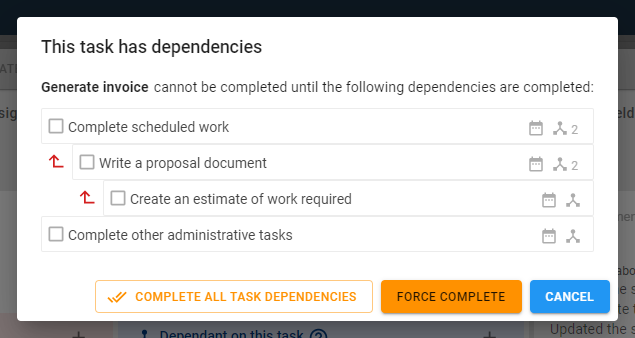
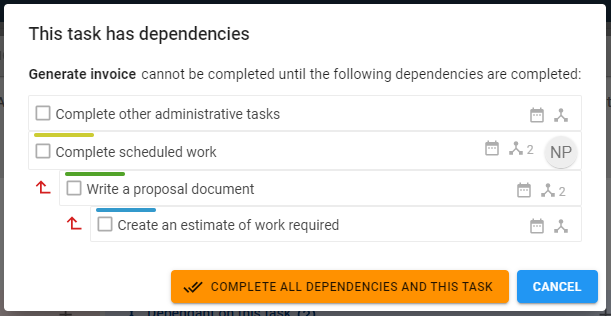
update dependencies how to guide for new features

diff --git a/docs/boards/howto/dependencies.md b/docs/boards/howto/dependencies.md
@@ -38,8 +38,8 @@ Task dependencies can be created in several ways:
 
 1. Open the `Timeline` view of your board.
 2. Ensure that the parent and child tasks for the dependency you want to create are scheduled and appear on the timeline.
-3. Dependencies can be created in either direction. To create a dependency from the parent to the child (parent waits for child to be completed first), first hover the cursor over the parent of the intended dependency to see the add dependency drag icons.
-4. Hover over the left red icon, click and drag the icon to the intended dependency child task. An arrow will be drawn as you drag, and the task you have dragged onto will have a red highlighted border:
+3. Dependencies can be created from child (starting task) to parent (ending task). The parent waits for child to be completed first. To create a new dependency, first hover the cursor over a task to see the add dependency drag icon appear on the bottom right edge (a blue arrow).
+4. Hover over the arrow icon, then click and drag it to the intended parent dependency task. An arrow will be drawn as you drag, and the task you have dragged onto will have a blue highlighted border.
 5. Drop the icon onto the intended task and the dependency relationship will be created.
     - Note that if the icon is dragged and dropped onto a task that is already a dependency of the originating task, then nothing will happen.
 
@@ -72,36 +72,52 @@ Dependencies for a particular task can be displayed/visualised in various ways d
 ### Board view
 - Hover on the dependencies icon on a task card for a moment to highlight its dependencies.
 ![](/assets/boards/dependencies/show-dependencies-kanban.gif)
+Note that numbers appear in the top right of the highlighted cards to indicate the order that they need to be completed. 
 
 ### Activity view
 - Hover on the dependencies icon on a task card for a moment to highlight its dependencies.
 ![](/assets/boards/dependencies/show-dependencies-activity.gif)
+Note that numbers appear in the top right of the highlighted cards to indicate the order that they need to be completed. 
 
 ### Mindmap
 - Hover on the dependencies icon on a task card for a moment to highlight its dependencies.
 ![](/assets/boards/dependencies/show-dependencies-mindmap.gif)
+Note that numbers appear in the top right of the highlighted cards to indicate the order that they need to be completed. 
 
 ### Timeline
-- Hover anywhere on a card with dependencies for a moment to highlight its dependencies and also visualise the dependency links as arrows to and from the dependant cards.
-![](/assets/boards/dependencies/show-dependencies-timeline.gif)
+Timeline view is the best way to visually observe dependencies as arrows drawn between scheduled tasks. 
 
-![](/assets/boards/dependencies/timeline-show-dependencies-checkbox.png){: style="float: left"} Using the controls in the right sidebar, dependency visualisations can be turned off by unchecking `Show Dependencies`. The arrow display depth slider can be used to increase the number of "levels" (backwards and forwards) to show a chain of dependency link arrows in the Timeline view, originating from the card that is being hovered on. See the image below as an example.
+There are several options available for showing dependency arrows in the timeline view, controlled by settings in the right hand sidebar:
 
-<br/><br/><br/><br/><br/><br/>
-![](/assets/boards/dependencies/show-dependencies-timeline-3-levels.png)
+<center>![](/assets/boards/dependencies/timeline-dependencies-settings.png)</center>
+
+#### Show all dependency arrows
+This is the default setting and will show all dependencies as blue arrows at all times. The arrows will recalculate themselves if tasks are moved or resized, or if dependencies are added or removed.
+![](/assets/boards/dependencies/timeline-dependencies-show-all.png)
+
+
+#### Hover on a task to show its dependencies
+Hover anywhere for a few moments on a task/card that has dependencies to highlight dependent tasks and also visualise the chain of dependency links as arrows to and from the dependant cards. Note that numbers also appear in the top right of the highlighted cards to indicate the order that they need to be completed. 
+
+![](/assets/boards/dependencies/timeline-show-dependencies-checkbox.png){: style="float: left"} When `Hover on a task to show its dependencies` is enabled, the arrow display depth slider will be shown, and can be used to increase the number of "levels" (backwards and forwards) to show a chain of dependency link arrows in the Timeline view, originating from the card that is being hovered on. 
+
+<br/><br/><br/>
+See the animation below as an example of 2 levels of dependency depth.
+
+![](/assets/boards/dependencies/show-dependencies-timeline-hover.gif)
+
+#### Don't show dependencies
+Use this option to hide all dependency arrows in Timeline.
 
 ## Completing a task that has dependencies
 Attempting to complete a task that has incomplete dependencies will trigger the following dialog:
 <center>![](/assets/boards/dependencies/incomplete-dependencies-dialog.png)</center>
 
-Note that individual tasks cannot be completed from this view.
+*Note that individual tasks cannot be completed from this view.
 
 ### Available actions
-#### Complete all Task Dependencies
-Click this to complete **all** preceding dependencies as displayed in the dialog. After performing this action the current task can then be completed successfully.
-
-#### Force Complete
-This action will ignore all preceding dependencies and force the task to complete.
+#### Complete all Task Dependencies and this task
+Click this to complete the task after completing **all** of its preceding dependencies as displayed in the dialog.
 
 #### Cancel
 Close the dialog without taking an action.
